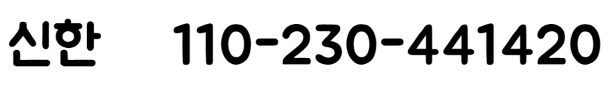
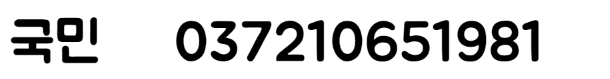
Modify img

Changed region(s): [[0.2803, 0.2532, 0.9967, 0.7848], [0.0, 0.2025, 0.1869, 0.8101]]

diff --git a/index.html b/index.html
@@ -62,7 +62,7 @@
                 </div>
                 <div>
                     <img class="account__num float__left" src="./assets/images/account/husband_mother_account_num.png">
-                    <img id="husband__mother--copy" class="account__copy float__right" data-clipboard-text="신한 110-230-441420" src="./assets/images/account/copy_before.png">
+                    <img id="husband__mother--copy" class="account__copy float__right" data-clipboard-text="국민 037210651981" src="./assets/images/account/copy_before.png">
                     <img class="account__copy float__right display__none" src="./assets/images/account/copy_after.png">
                     <div style="clear:both;"></div>
                 </div>
